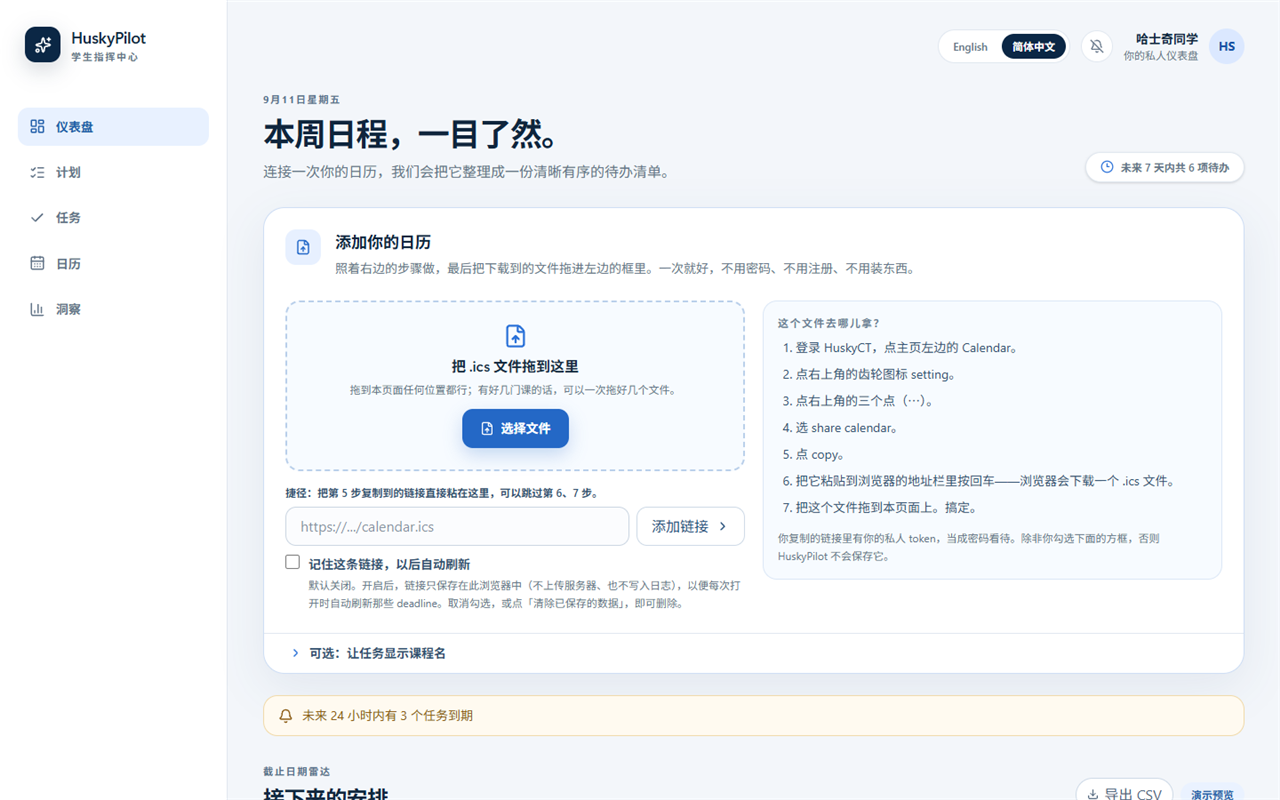
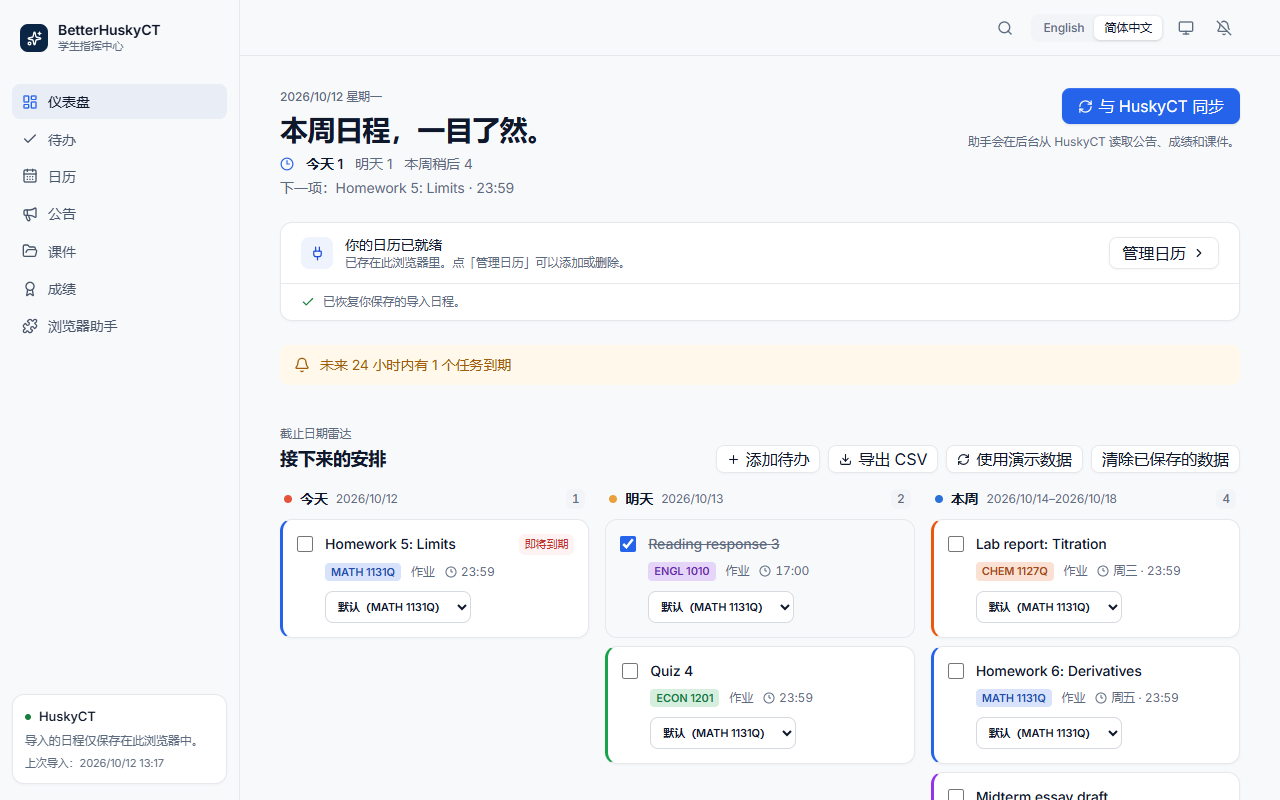
Screenshots: retake them from the current app, with made-up data

diff --git a/tools/extension/STORE.md b/tools/extension/STORE.md
@@ -3,7 +3,7 @@
 What the Chrome Web Store and Microsoft Edge Add-ons ask for, ready to paste. The package is the same for both: `public/betterhuskyct-extension.zip`, made by `npm run build` (or `node scripts/build-extension.mjs`).
 
 - Icons are in `icons/` (16, 48, 128) and in the manifest.
-- Screenshots are in `store/`, 1280×800, English and 简体中文.
+- Screenshots are in `store/`: the overview, to-do and announcements pages, 1280×800 and 24-bit, English and 简体中文. They show made-up data (no real student's), loaded through a `#sync=` link into a local `npm run dev`; retake them whenever the pages change enough to look different.
 - The privacy policy is `PRIVACY.md` at the repository root; its public address is
   `https://github.com/NoGod3524/betterhuskyct/blob/main/PRIVACY.md`.
 - A new version is the helper's `@version` raised, then the build, then **Upload new package** in each dashboard.
